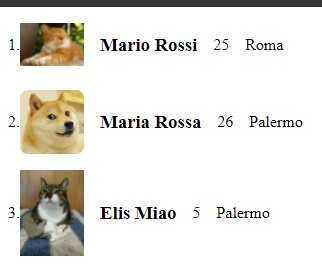
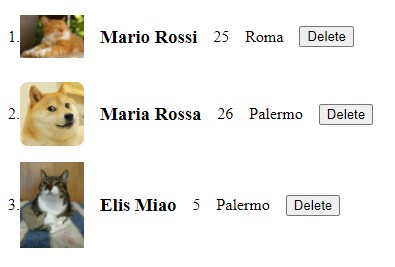
esercizio5 completed

diff --git a/my-app/src/app/project/user-single/user-single.component.ts b/my-app/src/app/project/user-single/user-single.component.ts
@@ -1,4 +1,4 @@
-import { Component, Input, OnInit } from '@angular/core';
+import { Component, EventEmitter, Input, OnInit, Output } from '@angular/core';
 import { User } from 'src/app/models/User';
 
 @Component({
@@ -9,10 +9,15 @@ import { User } from 'src/app/models/User';
 export class UserSingleComponent implements OnInit {
 
   @Input() user!: User;
+  @Output() deleteButton = new EventEmitter<User>();
 
   constructor() { }
 
   ngOnInit(): void {
   }
 
+  clickedButton(user: User) {
+    this.deleteButton.emit(user)
+  }
+  
 }

diff --git a/my-app/src/app/project/user-single/user-single.component.html b/my-app/src/app/project/user-single/user-single.component.html
@@ -1,6 +1,7 @@
 <div class="container">
     <img src="{{ user.profilePhotoUrl }}" alt="Foto profilo">
-    <span><strong> {{ user.name }} {{ user.surname }} </strong></span>
-    <span> {{ user.age }} </span>
-    <span> {{ user.address.city }} </span>
+    <p><strong> {{ user.name }} {{ user.surname }} </strong></p>
+    <p> {{ user.age }} </p>
+    <p> {{ user.address.city }} </p>
+    <button (click)="clickedButton(user)">Delete</button>
 </div>

diff --git a/my-app/src/app/project/user-list/user-list.component.html b/my-app/src/app/project/user-list/user-list.component.html
@@ -1,7 +1,9 @@
 <div class="container">
     <ol>
         <div class="user-element" *ngFor="let selectedUser of users">
-            <li><app-user-single [user]="selectedUser"></app-user-single></li>
+            <li>
+                <app-user-single [user]="selectedUser" (deleteButton)="deleteUser(selectedUser)"></app-user-single>
+            </li>
         </div>
     </ol>
 </div>

diff --git a/my-app/src/app/project/user-single/user-single.component.css b/my-app/src/app/project/user-single/user-single.component.css
@@ -2,8 +2,20 @@
     background-color: #FFE6CC;
     border: 2px solid #DBA315;
     margin-bottom: 20px;
+    display: flex;
+    align-items: center;
+    gap: 10px;
+}
+
+p{
+    margin: 0;
 }
 
 img {
     width: 100px;
+    height: 100px;
+}
+
+button {
+    height: 10%;
 }

diff --git a/my-app/src/app/project/user-list/user-list.component.ts b/my-app/src/app/project/user-list/user-list.component.ts
@@ -64,4 +64,8 @@ export class UserListComponent implements OnInit {
   ngOnInit(): void {
   }
 
+  deleteUser(x: User){
+    let index = this.users.indexOf(x);
+    this.users.splice(index,1);
+  }
 }

diff --git a/my-app/src/app/project/user-list/user-list.component.css b/my-app/src/app/project/user-list/user-list.component.css
@@ -4,8 +4,6 @@
     height: 100%;
 }
 
-
-
 .user-element {
     margin: 10px;
 }

diff --git a/README.md b/README.md
@@ -1,4 +1,4 @@
-# Angular Exercise 4
+# Angular Exercise 5
 
-Partendo dall'esercizio precedente, creare un componente user-single, che verrà iterato nella lista e prenderà come `@Input()` un singolo elemento della lista
+Partendo dall'esercizio precedente, nel componente users-single aggiungere un button che permette di rimuovere quell'elemento dalla lista emettendo un evento al componente padre.
 
